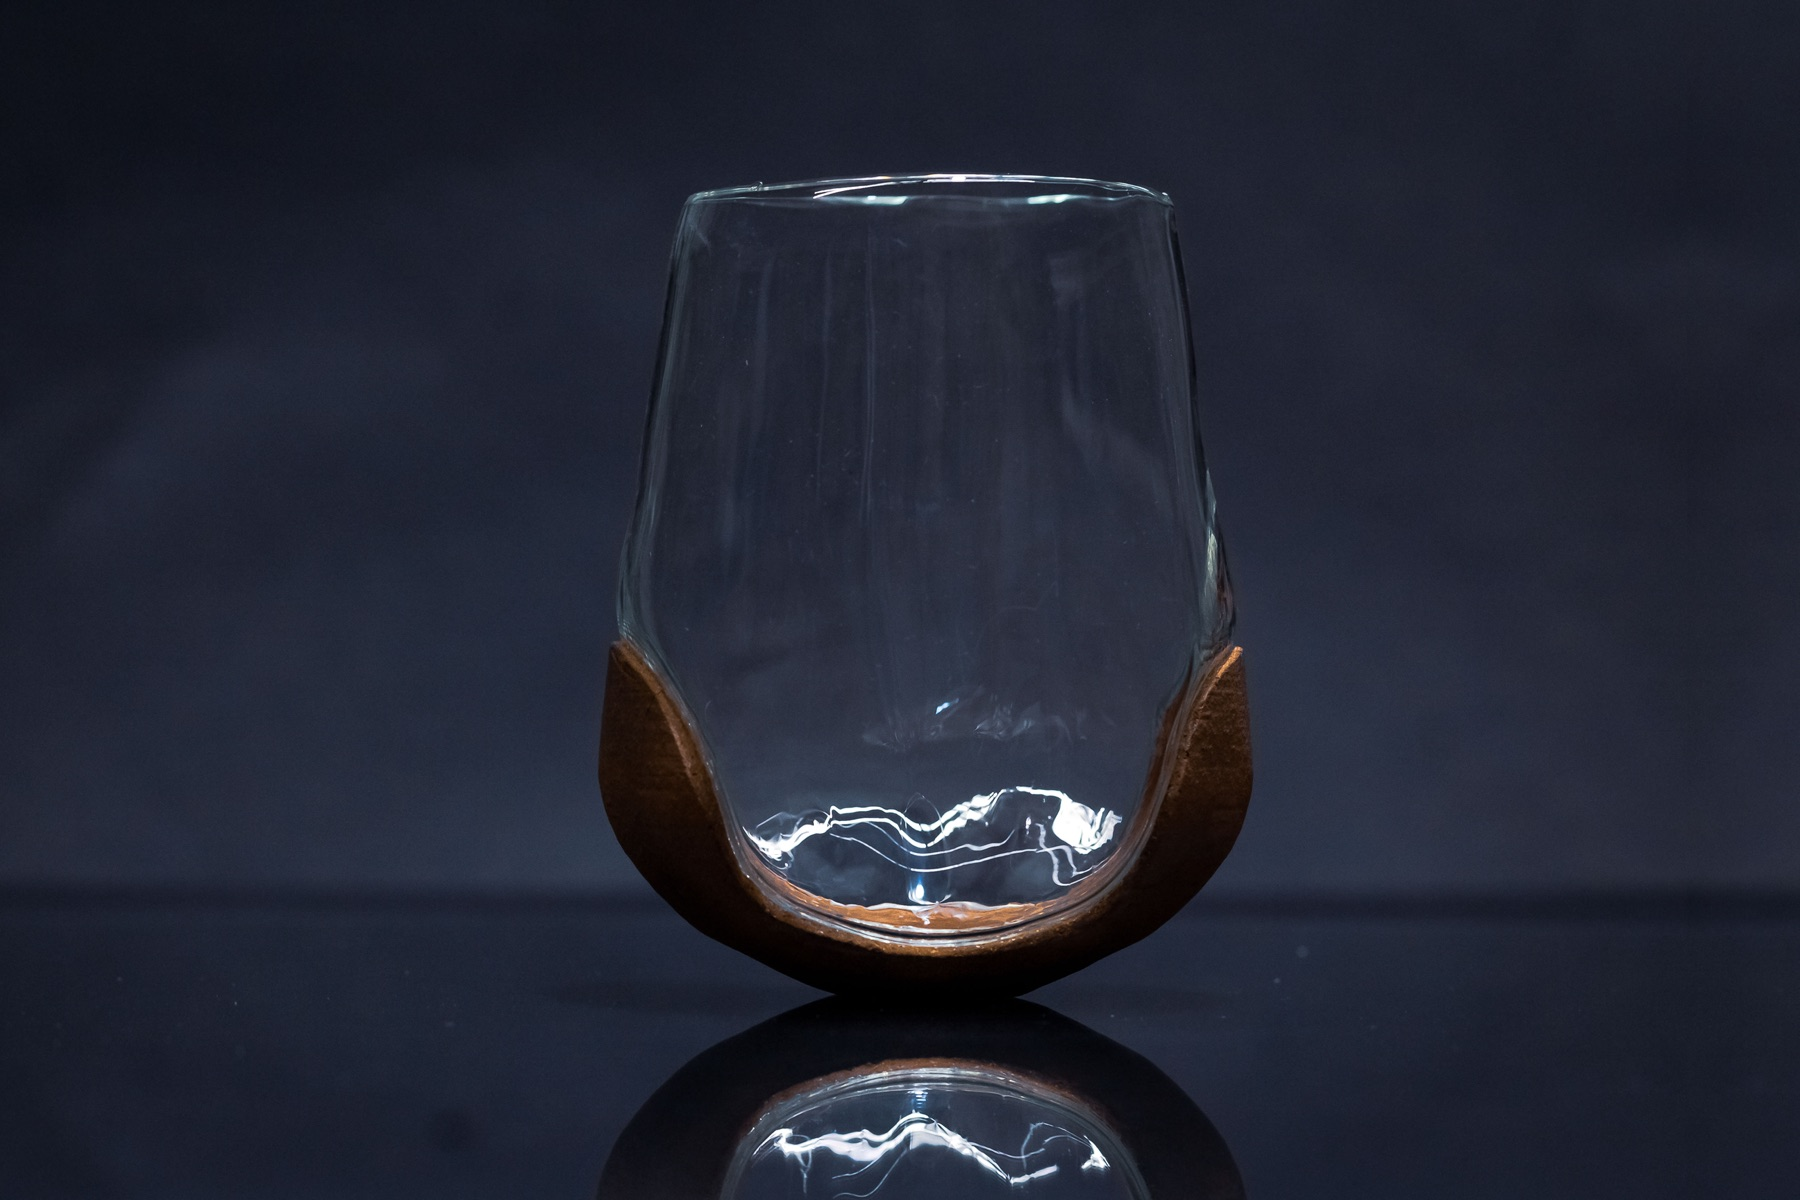
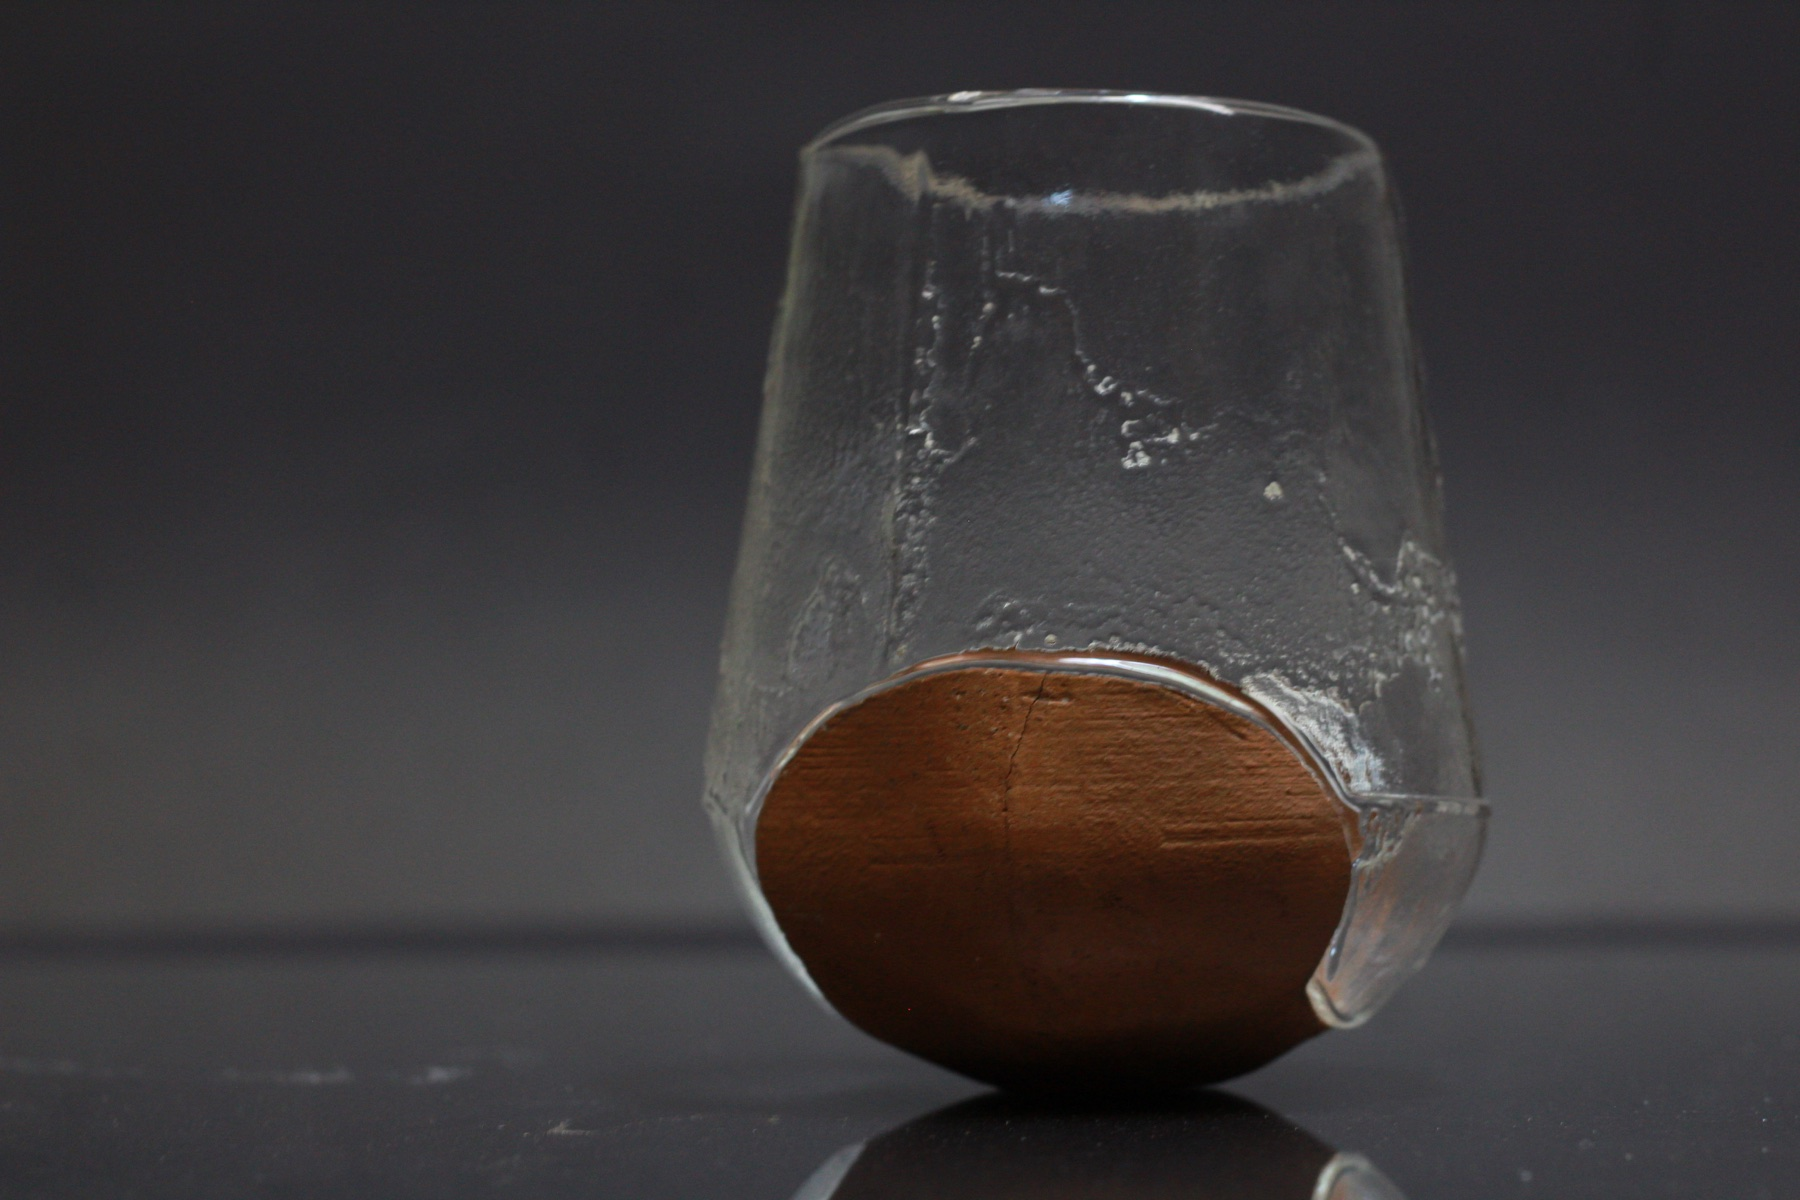
Curatoría RAW Tralma: reemplaza los 2 slides lifestyle (mano/atardecer) por soplado a la llama y copa con vino sobre negro; condensación ahora con escarcha real; todo sobre fondo oscuro coherente

diff --git a/tralma-trufquen.html b/tralma-trufquen.html
@@ -210,11 +210,11 @@ nav.top.solid{height:56px;--bs:.6}
     <figure role="group" aria-roledescription="slide" aria-label="02 de 6" data-n="02" data-t-es="Frontera visible" data-t-en="Visible border" data-s-es="Unión mecánica" data-s-en="Mechanical union" data-d-es="Greda y vidrio conservan una línea nítida entre sí. No hay masa única: esa frontera es la prueba de que la unión es mecánica." data-d-en="Clay and glass keep a sharp line between them. There is no single mass: that border proves the union is mechanical.">
       <img src="img/tralma/tralma-frontera.jpg" alt="Frontera visible" data-cap="02 · frontera visible" loading="lazy">
     </figure>
-    <figure role="group" aria-roledescription="slide" aria-label="03 de 6" data-n="03" data-t-es="En uso" data-t-en="In use" data-s-es="Con líquido" data-s-en="With liquid" data-d-es="Fotografiada en uso, con vino. La pieza no se exhibe: se toma. El peso de la greda equilibra el vidrio lleno." data-d-en="Photographed in use, with wine. The piece isn't exhibited: it's held. The clay's weight balances the filled glass.">
-      <img src="img/tralma/tralma-en-uso.jpg" alt="En uso" data-cap="03 · en uso" loading="lazy">
+    <figure role="group" aria-roledescription="slide" aria-label="03 de 6" data-n="03" data-t-es="Soplado a la llama" data-t-en="Flame-blown" data-s-es="Borosilicato en formación" data-s-en="Borosilicate in the making" data-d-es="El vidrio incandescente se sopla contra la base de greda ya colada. La copa nace de esa unión, no se ensambla después." data-d-en="The molten glass is blown against the already-cast clay base. The cup is born from that union, not assembled afterward.">
+      <img src="img/tralma/tralma-soplado.jpg" alt="Soplado a la llama" data-cap="03 · soplado a la llama" loading="lazy">
     </figure>
-    <figure role="group" aria-roledescription="slide" aria-label="04 de 6" data-n="04" data-t-es="En uso · exterior" data-t-en="In use · outdoors" data-s-es="Luz natural" data-s-en="Natural light" data-d-es="A contraluz, el borosilicato desaparece y solo queda la greda sosteniendo el líquido." data-d-en="Backlit, the borosilicate vanishes and only the clay remains, holding the liquid.">
-      <img src="img/tralma/tralma-en-uso-exterior.jpg" alt="En uso · exterior" data-cap="04 · en uso · exterior" loading="lazy">
+    <figure role="group" aria-roledescription="slide" aria-label="04 de 6" data-n="04" data-t-es="Con vino" data-t-en="With wine" data-s-es="La pieza en uso" data-s-en="The piece in use" data-d-es="Llena, la copa se lee entera: el vino ocupa el vidrio y la greda lo sostiene desde abajo. El peso equilibra la mano." data-d-en="Filled, the cup reads whole: the wine occupies the glass and the clay holds it from below. The weight balances the hand.">
+      <img src="img/tralma/tralma-vino.jpg" alt="Con vino" data-cap="04 · con vino" loading="lazy">
     </figure>
     <figure role="group" aria-roledescription="slide" aria-label="05 de 6" data-n="05" data-t-es="Condensación" data-t-en="Condensation" data-s-es="Superficie fría" data-s-en="Cold surface" data-d-es="El vidrio se escarcha y la greda no. Dos materiales, dos comportamientos térmicos, un mismo cuerpo." data-d-en="The glass frosts over and the clay doesn't. Two materials, two thermal behaviors, one body.">
       <img src="img/tralma/tralma-condensacion.jpg" alt="Condensación" data-cap="05 · condensación" loading="lazy">

diff --git a/_build.py b/_build.py
@@ -488,12 +488,12 @@ P.append(dict(
   slide('02','img/tralma/tralma-frontera.jpg','Frontera visible','Visible border','Unión mecánica','Mechanical union',
         'Greda y vidrio conservan una línea nítida entre sí. No hay masa única: esa frontera es la prueba de que la unión es mecánica.',
         'Clay and glass keep a sharp line between them. There is no single mass: that border proves the union is mechanical.','02 · frontera visible')+
-  slide('03','img/tralma/tralma-en-uso.jpg','En uso','In use','Con líquido','With liquid',
-        'Fotografiada en uso, con vino. La pieza no se exhibe: se toma. El peso de la greda equilibra el vidrio lleno.',
-        'Photographed in use, with wine. The piece isn\'t exhibited: it\'s held. The clay\'s weight balances the filled glass.','03 · en uso')+
-  slide('04','img/tralma/tralma-en-uso-exterior.jpg','En uso · exterior','In use · outdoors','Luz natural','Natural light',
-        'A contraluz, el borosilicato desaparece y solo queda la greda sosteniendo el líquido.',
-        'Backlit, the borosilicate vanishes and only the clay remains, holding the liquid.','04 · en uso · exterior')+
+  slide('03','img/tralma/tralma-soplado.jpg',u'Soplado a la llama','Flame-blown',u'Borosilicato en formación','Borosilicate in the making',
+        u'El vidrio incandescente se sopla contra la base de greda ya colada. La copa nace de esa unión, no se ensambla después.',
+        'The molten glass is blown against the already-cast clay base. The cup is born from that union, not assembled afterward.',u'03 · soplado a la llama')+
+  slide('04','img/tralma/tralma-vino.jpg',u'Con vino','With wine',u'La pieza en uso','The piece in use',
+        u'Llena, la copa se lee entera: el vino ocupa el vidrio y la greda lo sostiene desde abajo. El peso equilibra la mano.',
+        'Filled, the cup reads whole: the wine occupies the glass and the clay holds it from below. The weight balances the hand.',u'04 · con vino')+
   slide('05','img/tralma/tralma-condensacion.jpg','Condensación','Condensation','Superficie fría','Cold surface',
         'El vidrio se escarcha y la greda no. Dos materiales, dos comportamientos térmicos, un mismo cuerpo.',
         'The glass frosts over and the clay doesn\'t. Two materials, two thermal behaviors, one body.','05 · condensación')+
